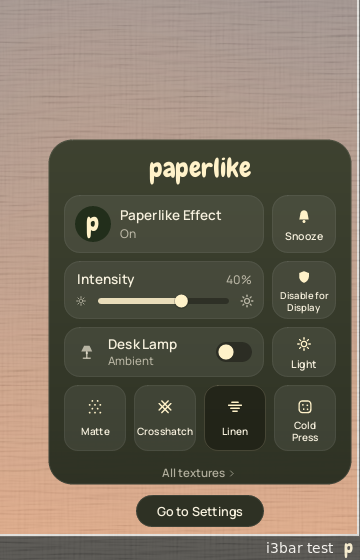
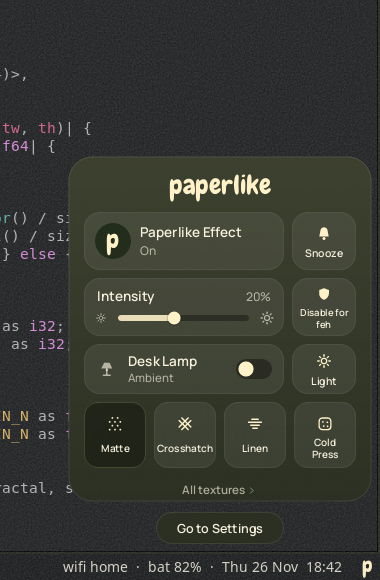
Move config to paperlike.toml and apply edits on save
The config file is now ~/.config/paperlike/paperlike.toml; an existing
config.toml is renamed on first start. The daemon watches the file with
inotify and applies edits as soon as they're saved, whether the editor
writes in place or renames a temp file over it. Edits that don't parse
are ignored and the current settings stay in place.

Also retake the README screenshots: a realistic desktop, Matte texture,
and a clean settings window.

diff --git a/src/app.rs b/src/app.rs
@@ -23,6 +23,7 @@ use crate::ui::{self, Fonts, Key, Painter};
 use crate::views::control_center::{self, ControlCenter};
 use crate::views::settings::{self, Page, Settings};
 use crate::views::{Ctx, Pause, Status, menu};
+use crate::watch::FileWatch;
 use crate::x11::keys::{self, Grabs, KeyMap};
 use crate::x11::overlay::{self, Content, Overlay, TextureLayer};
 use crate::x11::surface::Surface;
@@ -61,6 +62,11 @@ pub struct App {
     keymap: KeyMap,
     grabs: Grabs,
     ipc: ipc::Server,
+    /// Notices edits to the config file.
+    watch: Option<FileWatch>,
+    /// What we last wrote to (or read from) the config file, so our own
+    /// saves don't count as edits.
+    last_written: Option<String>,
     cc: Option<Popup<ControlCenter>>,
     menu: Option<Popup<()>>,
     settings: Option<(Surface, Settings)>,
@@ -115,6 +121,10 @@ impl App {
         xc.watch_selection(xc.cm_selection)?;
         xc.watch_selection(xc.tray_selection)?;
         let keymap = KeyMap::load(&xc)?;
+        let watch = FileWatch::new(&Config::path())
+            .map_err(|e| eprintln!("paperlike: not watching the config file for edits: {e}"))
+            .ok();
+        let last_written = std::fs::read_to_string(Config::path()).ok();
         let now = Instant::now();
         let mut app = App {
             compositor: xc.compositor_running(),
@@ -128,6 +138,8 @@ impl App {
             keymap,
             grabs: Grabs::default(),
             ipc,
+            watch,
+            last_written,
             cc: None,
             menu: None,
             settings: None,
@@ -176,6 +188,8 @@ impl App {
         }
         let xfd = self.xc.conn.stream().as_raw_fd();
         let ifd = self.ipc.fd();
+        // poll() skips negative descriptors.
+        let wfd = self.watch.as_ref().map_or(-1, FileWatch::fd);
         while self.running && !STOP.load(Ordering::SeqCst) {
             self.drain()?;
             loop {
@@ -188,18 +202,21 @@ impl App {
             if !self.running {
                 break;
             }
-            let mut fds = [
-                libc::pollfd { fd: xfd, events: libc::POLLIN, revents: 0 },
-                libc::pollfd { fd: ifd, events: libc::POLLIN, revents: 0 },
-            ];
+            let mut fds =
+                [xfd, ifd, wfd].map(|fd| libc::pollfd { fd, events: libc::POLLIN, revents: 0 });
             let timeout = self.timeout_ms();
-            // SAFETY: `fds` is a valid array of two pollfd structs.
-            unsafe { libc::poll(fds.as_mut_ptr(), 2, timeout) };
+            // SAFETY: `fds` is a valid array of pollfd structs of the given length.
+            unsafe { libc::poll(fds.as_mut_ptr(), fds.len() as libc::nfds_t, timeout) };
             if fds[0].revents & (libc::POLLHUP | libc::POLLERR) != 0 {
                 return Err("lost the connection to the X server".into());
             }
             if fds[1].revents & libc::POLLIN != 0 {
                 self.handle_ipc();
+            }
+            if fds[2].revents & libc::POLLIN != 0
+                && self.watch.as_ref().is_some_and(FileWatch::changed)
+            {
+                self.config_file_changed();
             }
         }
         self.shutdown();
@@ -319,9 +336,40 @@ impl App {
 
     fn save(&mut self) {
         self.save_at = None;
-        if let Err(e) = self.cfg.save() {
-            eprintln!("paperlike: could not save config: {e}");
+        match self.cfg.save() {
+            Ok(text) => self.last_written = Some(text),
+            Err(e) => eprintln!("paperlike: could not save config: {e}"),
         }
+    }
+
+    /// The config file was saved by someone else, most likely a text
+    /// editor: apply it now.
+    fn config_file_changed(&mut self) {
+        let Ok(text) = std::fs::read_to_string(Config::path()) else {
+            return;
+        };
+        if self.last_written.as_deref() == Some(text.as_str()) {
+            return;
+        }
+        match Config::parse(&text) {
+            Ok(cfg) => {
+                self.last_written = Some(text);
+                // The file wins over a not-yet-saved change from the UI.
+                self.save_at = None;
+                self.apply_config(cfg);
+            }
+            // Probably mid-edit; keep running with the current settings.
+            Err(e) => eprintln!("paperlike: ignoring {}: {e}", Config::path().display()),
+        }
+    }
+
+    fn apply_config(&mut self, cfg: Config) {
+        self.cfg = cfg;
+        self.grabs.regrab(&self.xc, &self.keymap, &self.cfg.hotkeys);
+        let now = Instant::now();
+        self.next_sample = now;
+        self.next_theme_poll = now;
+        self.state_changed();
     }
 
     // ---- state ------------------------------------------------------------
@@ -1005,9 +1053,19 @@ impl App {
                 "settings reset".into()
             }
             Cmd::ReloadConfig => {
-                self.cfg = Config::load();
-                self.grabs.regrab(&self.xc, &self.keymap, &self.cfg.hotkeys);
-                self.state_changed();
+                let path = Config::path();
+                let cfg = match std::fs::read_to_string(&path) {
+                    Ok(text) => {
+                        let cfg =
+                            Config::parse(&text).map_err(|e| format!("{}: {e}", path.display()))?;
+                        self.last_written = Some(text);
+                        cfg
+                    }
+                    Err(e) if e.kind() == std::io::ErrorKind::NotFound => Config::default(),
+                    Err(e) => return Err(format!("{}: {e}", path.display()).into()),
+                };
+                self.save_at = None;
+                self.apply_config(cfg);
                 "reloaded".into()
             }
             Cmd::Quit => {

diff --git a/src/watch.rs b/src/watch.rs
@@ -1,0 +1,116 @@
+//! Notices when the config file is saved, so edits made in a text editor
+//! apply straight away.
+//!
+//! This watches the file's directory rather than the file itself: many
+//! editors save by writing a new file and renaming it over the old one,
+//! which would silently end a watch on the original file.
+
+use std::ffi::CString;
+use std::io;
+use std::os::fd::{AsRawFd, FromRawFd, OwnedFd, RawFd};
+use std::os::unix::ffi::OsStrExt;
+use std::path::Path;
+
+/// Size of `struct inotify_event` without its trailing name.
+const EVENT_HEADER: usize = 16;
+
+pub struct FileWatch {
+    fd: OwnedFd,
+    name: Vec<u8>,
+}
+
+impl FileWatch {
+    /// Starts watching `path`, creating its directory if needed.
+    pub fn new(path: &Path) -> io::Result<FileWatch> {
+        let (Some(dir), Some(name)) = (path.parent(), path.file_name()) else {
+            return Err(io::Error::new(io::ErrorKind::InvalidInput, "not a file path"));
+        };
+        std::fs::create_dir_all(dir)?;
+        let dir = CString::new(dir.as_os_str().as_bytes())?;
+
+        // SAFETY: inotify_init1 has no preconditions; on success we take
+        // ownership of the new descriptor straight away.
+        let raw = unsafe { libc::inotify_init1(libc::IN_NONBLOCK | libc::IN_CLOEXEC) };
+        if raw < 0 {
+            return Err(io::Error::last_os_error());
+        }
+        let fd = unsafe { OwnedFd::from_raw_fd(raw) };
+
+        // A finished write, or another file renamed onto ours. Creation is
+        // left out on purpose: a freshly created file is still empty.
+        let mask = libc::IN_CLOSE_WRITE | libc::IN_MOVED_TO;
+        // SAFETY: `fd` is a valid inotify descriptor and `dir` a C string.
+        if unsafe { libc::inotify_add_watch(fd.as_raw_fd(), dir.as_ptr(), mask) } < 0 {
+            return Err(io::Error::last_os_error());
+        }
+        Ok(FileWatch { fd, name: name.as_bytes().to_vec() })
+    }
+
+    pub fn fd(&self) -> RawFd {
+        self.fd.as_raw_fd()
+    }
+
+    /// Reads all pending events. Returns true if any of them were for the
+    /// watched file.
+    pub fn changed(&self) -> bool {
+        // Aligned for the kernel's event structs.
+        let mut buf = vec![0u64; 512];
+        let mut hit = false;
+        loop {
+            // SAFETY: reading into a buffer we own, of the length we pass.
+            let n = unsafe { libc::read(self.fd(), buf.as_mut_ptr().cast(), buf.len() * 8) };
+            if n <= 0 {
+                break;
+            }
+            let bytes: Vec<u8> =
+                buf.iter().flat_map(|w| w.to_ne_bytes()).take(n as usize).collect();
+            let mut off = 0;
+            while off + EVENT_HEADER <= bytes.len() {
+                let len = u32::from_ne_bytes([
+                    bytes[off + 12],
+                    bytes[off + 13],
+                    bytes[off + 14],
+                    bytes[off + 15],
+                ]) as usize;
+                let end = (off + EVENT_HEADER + len).min(bytes.len());
+                let raw_name = &bytes[off + EVENT_HEADER..end];
+                // The name is NUL-padded.
+                let name = raw_name.split(|&b| b == 0).next().unwrap_or_default();
+                if name == self.name {
+                    hit = true;
+                }
+                off = end;
+            }
+        }
+        hit
+    }
+}
+
+#[cfg(test)]
+mod tests {
+    use super::*;
+
+    #[test]
+    fn sees_writes_and_renames() {
+        let dir = std::env::temp_dir().join(format!("paperlike-watch-{}", std::process::id()));
+        let _ = std::fs::remove_dir_all(&dir);
+        let file = dir.join("paperlike.toml");
+        let watch = FileWatch::new(&file).unwrap();
+        assert!(!watch.changed());
+
+        std::fs::write(dir.join("other.toml"), "x").unwrap();
+        assert!(!watch.changed(), "unrelated file");
+
+        std::fs::write(&file, "enabled = false\n").unwrap();
+        assert!(watch.changed(), "direct write");
+        assert!(!watch.changed(), "events are drained");
+
+        let tmp = dir.join("paperlike.toml.tmp");
+        std::fs::write(&tmp, "enabled = true\n").unwrap();
+        watch.changed();
+        std::fs::rename(&tmp, &file).unwrap();
+        assert!(watch.changed(), "rename onto the file");
+
+        std::fs::remove_dir_all(&dir).unwrap();
+    }
+}

diff --git a/src/config.rs b/src/config.rs
@@ -1,4 +1,4 @@
-//! Settings, stored as TOML in `$XDG_CONFIG_HOME/paperlike/config.toml`.
+//! Settings, stored as TOML in `$XDG_CONFIG_HOME/paperlike/paperlike.toml`.
 //!
 //! Every field has a default, so partial or hand-edited files are fine.
 //! Unknown texture or preset names fall back to the default instead of
@@ -409,21 +409,34 @@ impl Config {
     }
 
     pub fn path() -> PathBuf {
+        config_home().join("paperlike").join("paperlike.toml")
+    }
+
+    /// Where versions before 0.2 kept the file.
+    fn old_path() -> PathBuf {
         config_home().join("paperlike").join("config.toml")
     }
 
+    /// Parses a config file's text and pulls values back into range.
+    pub fn parse(text: &str) -> Result<Config, toml::de::Error> {
+        let mut c: Config = toml::from_str(text)?;
+        c.sanitize();
+        Ok(c)
+    }
+
     /// Loads the config, or the defaults if there isn't one. A file that
-    /// can't be parsed at all is renamed to `config.toml.broken`.
+    /// can't be parsed at all is renamed to `paperlike.toml.broken`.
     pub fn load() -> Config {
         let path = Self::path();
+        let old = Self::old_path();
+        if !path.exists() && old.exists() && std::fs::rename(&old, &path).is_ok() {
+            eprintln!("paperlike: moved {} to {}", old.display(), path.display());
+        }
         let Ok(text) = std::fs::read_to_string(&path) else {
             return Config::default();
         };
-        match toml::from_str::<Config>(&text) {
-            Ok(mut c) => {
-                c.sanitize();
-                c
-            }
+        match Self::parse(&text) {
+            Ok(c) => c,
             Err(e) => {
                 eprintln!("paperlike: {} is invalid ({e}); using defaults", path.display());
                 let _ = std::fs::rename(&path, path.with_extension("toml.broken"));
@@ -432,16 +445,17 @@ impl Config {
         }
     }
 
-    /// Writes the config atomically.
-    pub fn save(&self) -> std::io::Result<()> {
+    /// Writes the config atomically and returns the text written.
+    pub fn save(&self) -> std::io::Result<String> {
         let path = Self::path();
         if let Some(dir) = path.parent() {
             std::fs::create_dir_all(dir)?;
         }
         let text = toml::to_string_pretty(self).map_err(std::io::Error::other)?;
         let tmp = path.with_extension("toml.tmp");
-        std::fs::write(&tmp, text)?;
-        std::fs::rename(tmp, path)
+        std::fs::write(&tmp, &text)?;
+        std::fs::rename(tmp, path)?;
+        Ok(text)
     }
 }
 

diff --git a/src/cmd.rs b/src/cmd.rs
@@ -71,7 +71,7 @@ usage: paperlike [command]
   snooze <minutes>|off
   theme <light|dark|system|screen|sun>
   status [--json]       print the current state (handy for status bars)
-  reload                re-read the config file
+  reload                re-read the config file (edits also apply on save)
   quit                  stop the daemon
 ";
 

diff --git a/src/main.rs b/src/main.rs
@@ -17,6 +17,7 @@ mod texture;
 mod theme;
 mod ui;
 mod views;
+mod watch;
 mod x11;
 
 use std::process::ExitCode;

diff --git a/README.md b/README.md
@@ -11,7 +11,10 @@ It's written in Rust for X11 and was built with i3 in mind, but any
 window manager with a compositor should work. It was inspired by
 [Paperman](https://paperman.cc/), which doesn't have a Linux version.
 
-![Without and with the Linen texture](docs/before-after.png)
+![Left: no texture. Right: Matte at its default 20%](docs/before-after.png)
+
+<sub>Left of the line: no texture. Right: Matte at its default 20%. Open the
+image at full size to see the grain.</sub>
 
 <p>
   <img src="docs/control-center.png" alt="The control center" height="380">
@@ -135,9 +138,10 @@ focus-exclude           = [ "name = 'Paperlike overlay'" ];
 
 ## Configuration
 
-Settings are saved to `~/.config/paperlike/config.toml` whenever you change
-something. If you edit the file by hand, run `paperlike reload`. Two options
-are only in the file:
+Settings live in `~/.config/paperlike/paperlike.toml`. The app saves them
+whenever you change something, and edits you make to the file apply as soon
+as you save it. If an edit doesn't parse, it's ignored (the error is printed)
+and the current settings stay in place. Two options are only in the file:
 
 - `grain_scale`: texture pixels to screen pixels. Try `1.5` or `2` on HiDPI
   screens (it's also on the Texture page).

diff --git a/CHANGELOG.md b/CHANGELOG.md
@@ -1,5 +1,12 @@
 # Changelog
 
+## Unreleased
+
+- The config file is now `~/.config/paperlike/paperlike.toml`. An existing
+  `config.toml` is renamed on first start.
+- Edits to the config file apply as soon as it's saved. A file that doesn't
+  parse is ignored and the error is printed.
+
 ## 0.1.0 (2026-11-26)
 
 First release.
